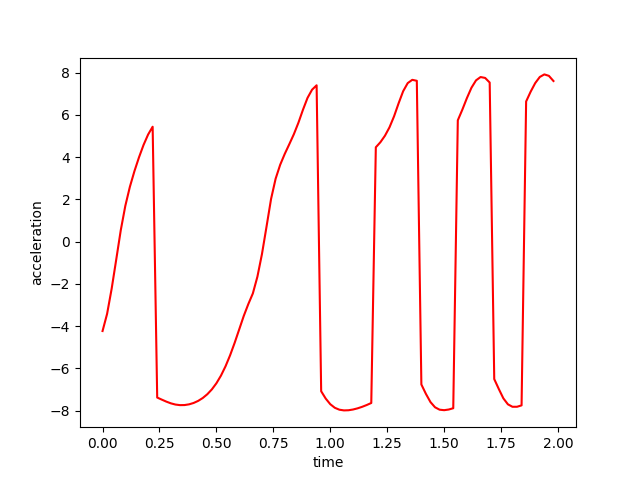
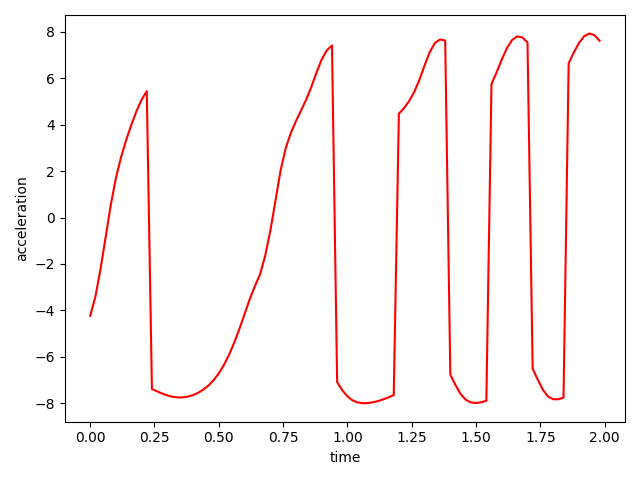
Improve visualization and testing workflow

diff --git a/latto_latto_model.py b/latto_latto_model.py
@@ -28,6 +28,8 @@ class LattoLatto(gym.Env):
         self.small_theta = 0.075
         self.collision_now = 0
         self.collision_before = 0
+        self.fig = None
+        self.ax = None
 
     def step(self, action):
         action = np.float32(np.clip(action, -self.max_action, self.max_action))
@@ -84,23 +86,39 @@ class LattoLatto(gym.Env):
     def draw_line(self, pose_point, pose_ball_left, pose_ball_right):
         x = [pose_point[0], pose_ball_left[0]]
         y = [pose_point[1], pose_ball_left[1]]
-        plt.plot(x,y,color='black')
+        self.ax.plot(x, y, color='black')
         x = [pose_point[0], pose_ball_right[0]]
         y = [pose_point[1], pose_ball_right[1]]
-        plt.plot(x,y,color='black')
-        plt.scatter(pose_ball_left[0], pose_ball_left[1], color='blue', s=100)
-        plt.scatter(pose_ball_right[0], pose_ball_right[1], color='blue', s=100)
+        self.ax.plot(x, y, color='black')
+        self.ax.scatter(pose_ball_left[0], pose_ball_left[1], color='blue', s=100)
+        self.ax.scatter(pose_ball_right[0], pose_ball_right[1], color='blue', s=100)
         
     
     def render(self, mode='human'):
-        plt.axis('equal')
-        # plt.xlim([-self.length, self.length])
-        # plt.ylim([-5*self.length, 5*self.length])
+        if self.fig is None or self.ax is None or not plt.fignum_exists(self.fig.number):
+            plt.ion()
+            self.fig, self.ax = plt.subplots()
+            plt.show(block=False)
+
+        self.ax.clear()
+        self.ax.set_aspect('equal', adjustable='box')
+        self.ax.set_xlim([-1.5 * self.length, 1.5 * self.length])
+        self.ax.set_ylim([-self.z_threshold - 2 * self.length, self.z_threshold + 2 * self.length])
+        self.ax.set_title('Latto-Latto Animation')
+        self.ax.set_xlabel('x')
+        self.ax.set_ylabel('z')
+
         pose_point = [0, self.state[0]]
         pose_ball_left = [-self.length*math.sin(self.state[2]), self.state[0]-self.length*math.cos(self.state[2])]
         pose_ball_right = [self.length*math.sin(self.state[2]), self.state[0]-self.length*math.cos(self.state[2])]
         self.draw_line(pose_point, pose_ball_left, pose_ball_right)
-        plt.draw()
-        plt.pause(0.001)
-        plt.clf()
+        self.fig.canvas.draw_idle()
+        self.fig.canvas.flush_events()
+        plt.pause(0.02)
         print(f'State {self.state}, action: {self.act}, done: {self.cur_done}, reward: {self.cur_reward}')
+
+    def close(self):
+        if self.fig is not None:
+            plt.close(self.fig)
+            self.fig = None
+            self.ax = None

diff --git a/testing_latto.py b/testing_latto.py
@@ -1,9 +1,13 @@
-%matplotlib
 import gym
 import math
 from latto_latto_model import LattoLatto
 from stable_baselines3 import PPO
 import matplotlib.pyplot as plt
+
+backend = plt.get_backend().lower()
+interactive_backend = backend not in {"agg", "pdf", "ps", "svg", "template"}
+if interactive_backend:
+    plt.ion()
 
 env = LattoLatto()
 observation = env.reset()
@@ -24,9 +28,13 @@ for i in range(0,100):
     if terminated:
         print('done')
         observation = env.reset()
-env.close()
 fig1, ax1 = plt.subplots()
 ax1.plot(time_array, action_array, '-r')
 ax1.set_xlabel("time")
 ax1.set_ylabel("acceleration")
+fig1.tight_layout()
 fig1.savefig('acceleration.png')
+if interactive_backend:
+    plt.ioff()
+    plt.show()
+env.close()